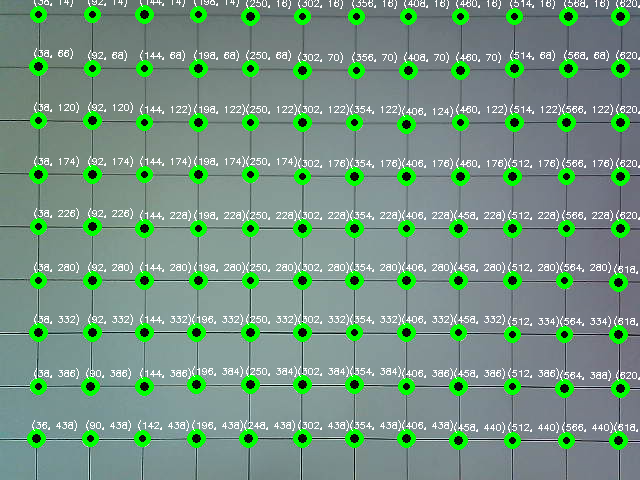
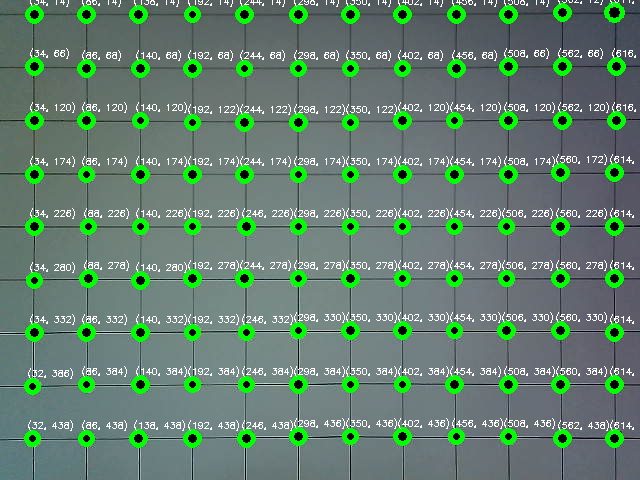
added calibration logic with new points

diff --git a/calibrate.py b/calibrate.py
@@ -22,4 +22,4 @@ path = pathlib.Path("./pic.png")
 
 
 calibrator.detect_circles(path)
-calibrator.fix_camera_points()
+# calibrator.fix_camera_points()
